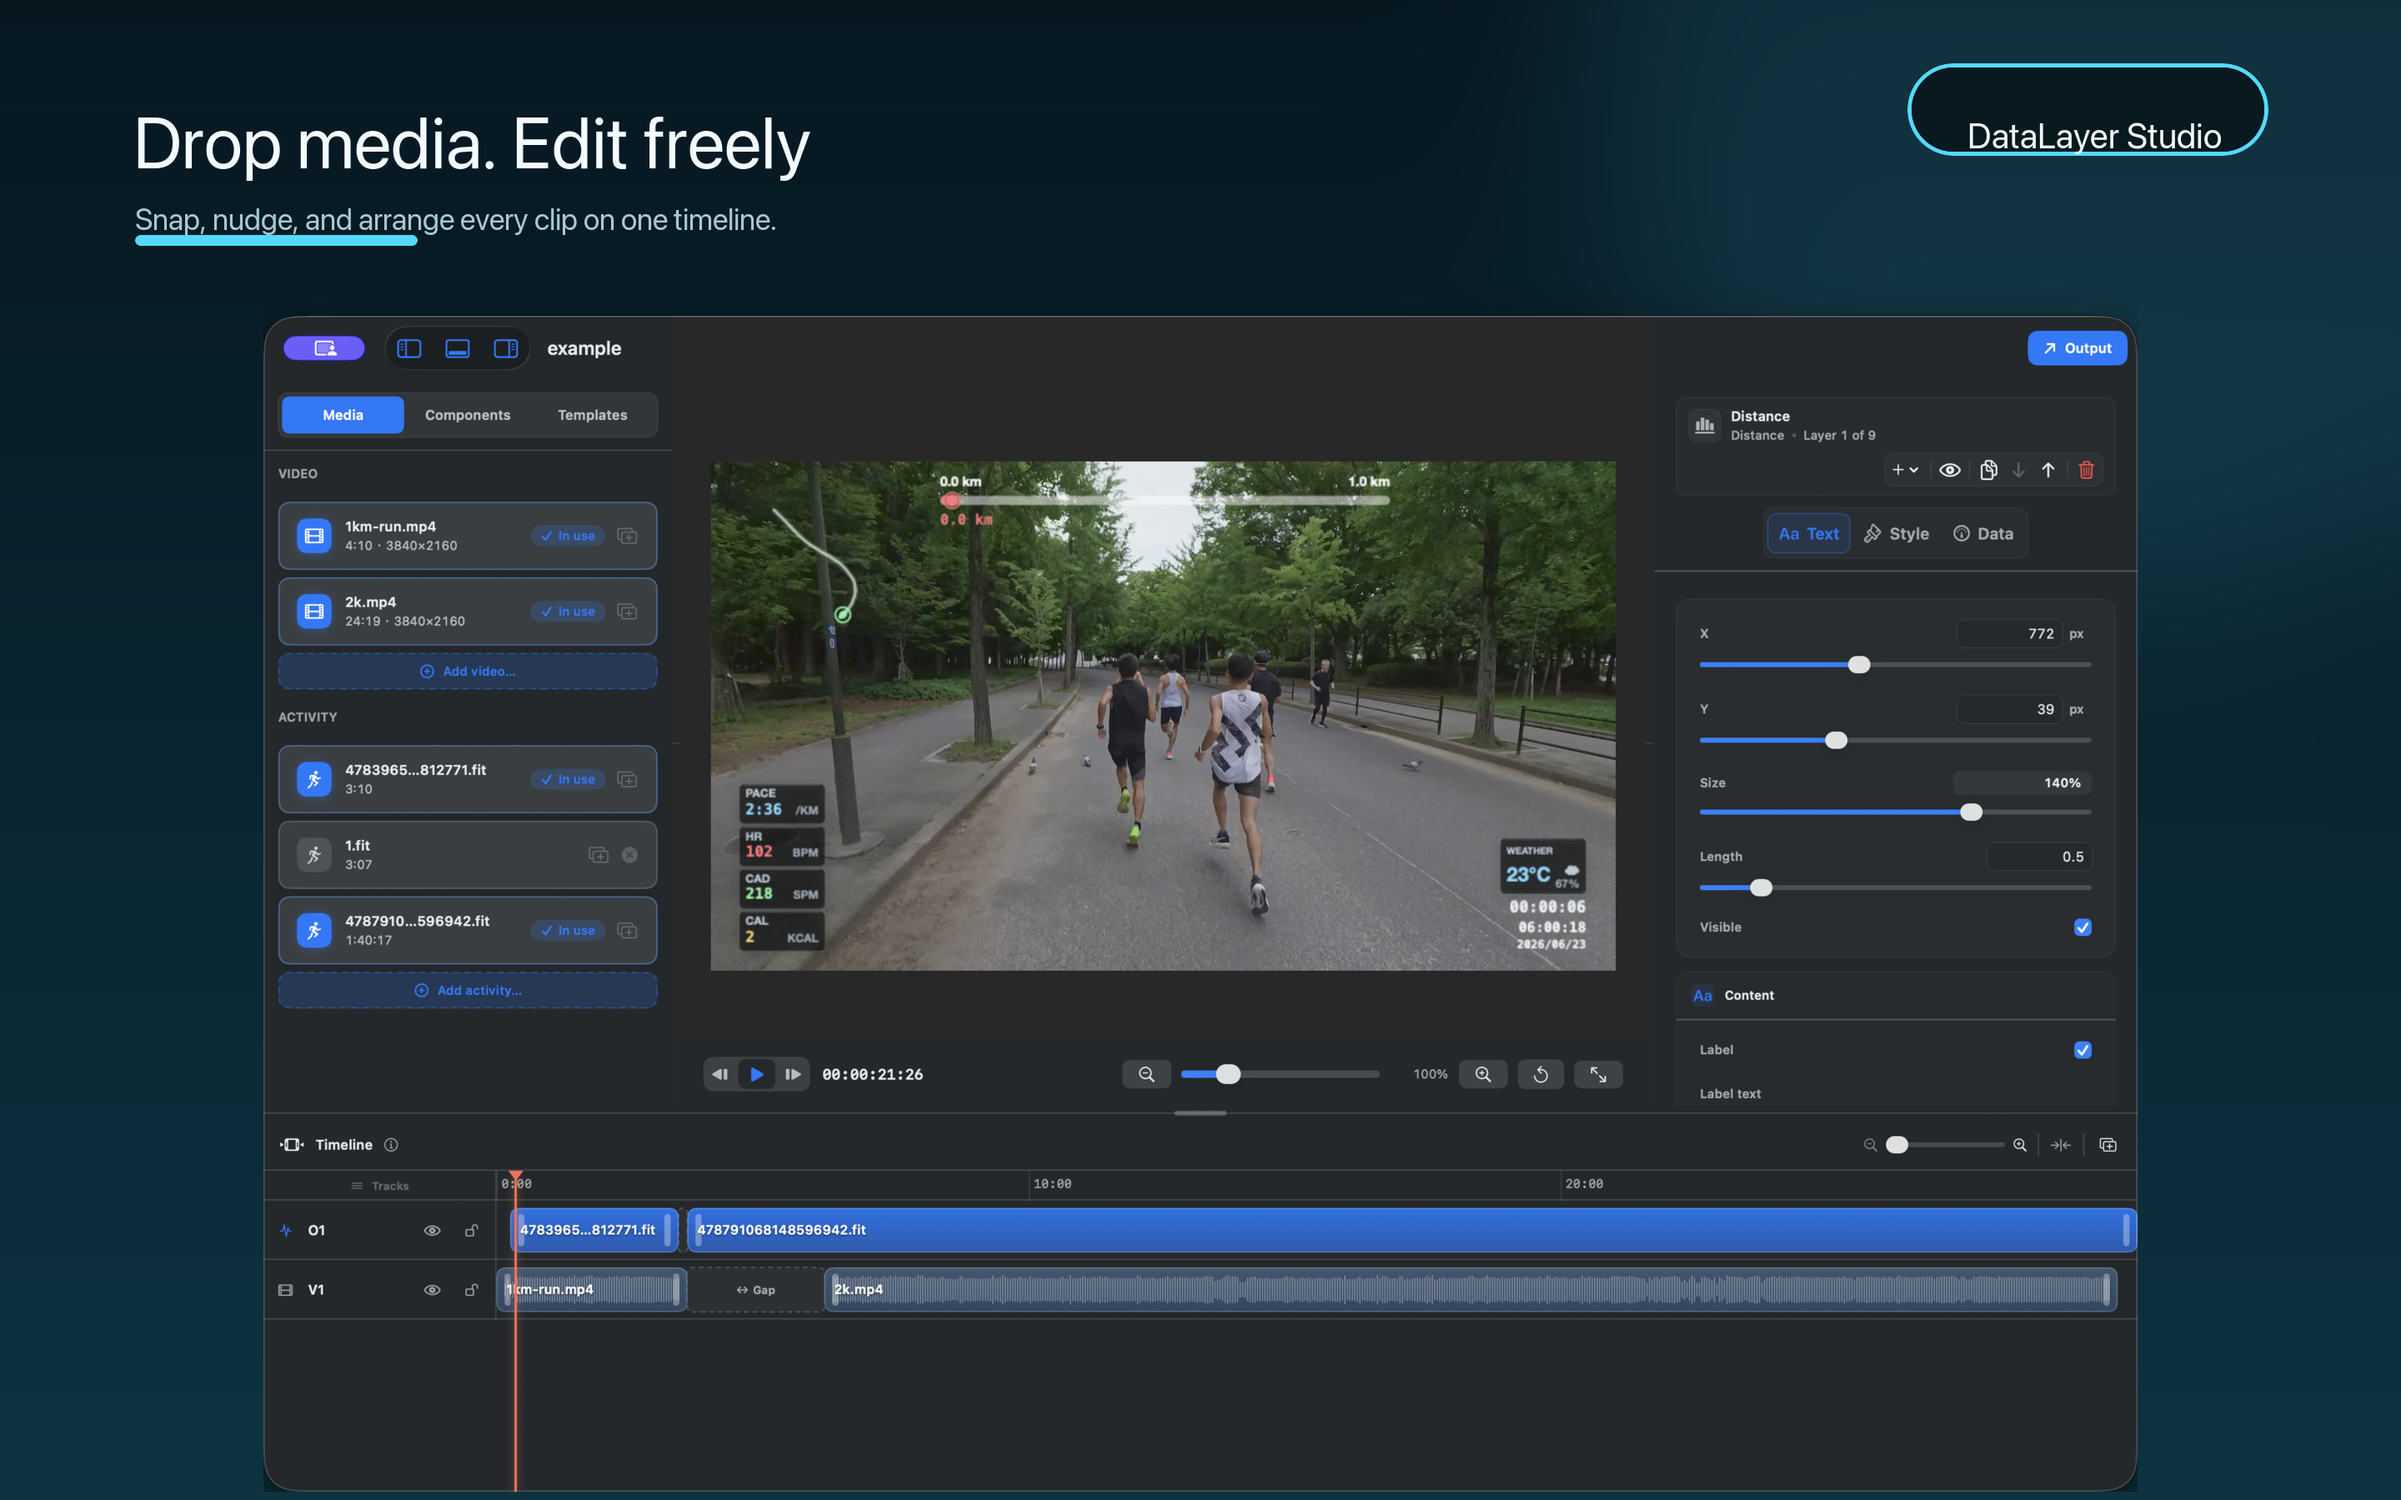
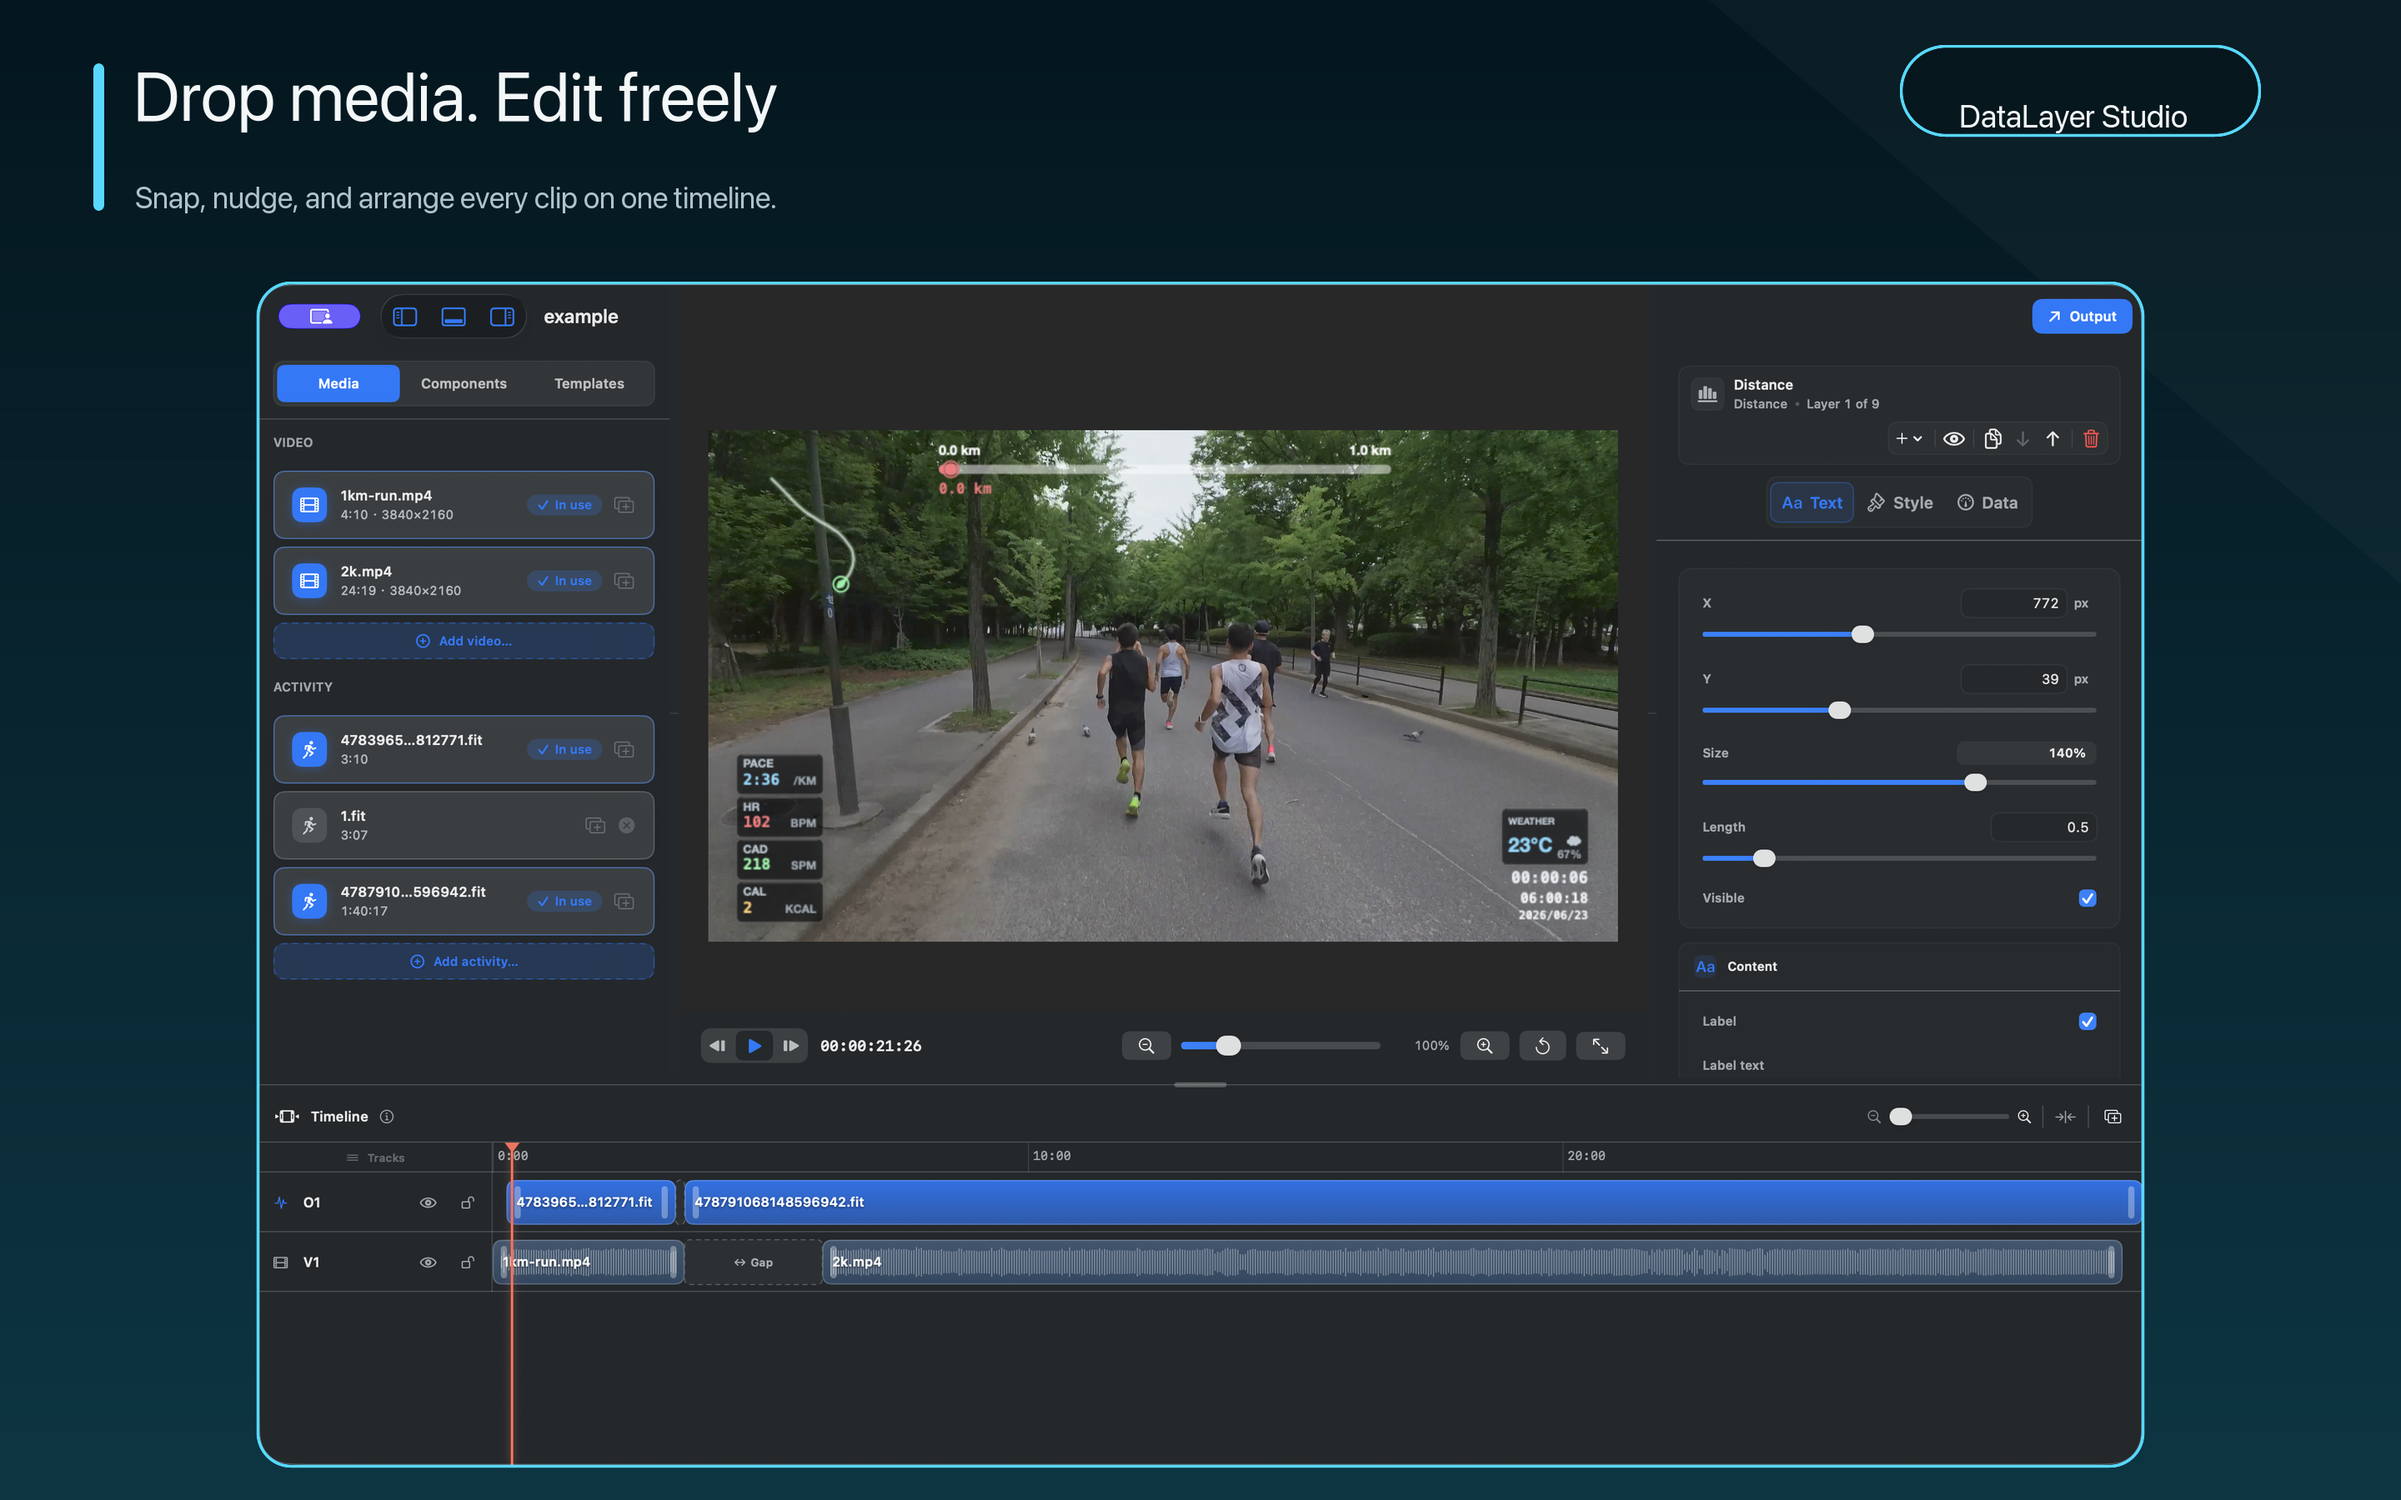
问题：商店截图四角出现直角阴影｜修复：移除窗口阴影并统一圆角描边版式

diff --git a/assets/appstore/v0.3.3/README.md b/assets/appstore/v0.3.3/README.md
@@ -9,4 +9,4 @@
 - 语言：`en-US`、`ja`、`zh-Hans`、`zh-Hant`
 - 原始截图：`assets/screenshots_raw/v0.3.3/`
 
-截图来自当前 `main` 最新本地 App 和 `example.dlsproj`，全部固定在时间码 `00:00:21:26`。截图前已确认视频、距离、配速、心率、步频、热量、天气和日期时间数据完整显示且无异常。版式重做为三色渐变背景、大标题与居中放大的完整 App 窗口，不复用旧版窗口坐标；同时提供 `desktop`（1440 × 900）和 `desktop@2x`（2880 × 1800），App Store Connect 仅上传 `desktop@2x`。
+截图来自当前 `main` 最新本地 App 和 `example.dlsproj`，全部固定在时间码 `00:00:21:26`。截图前已确认视频、距离、配速、心率、步频、热量、天气和日期时间数据完整显示且无异常。版式使用三色渐变背景、大标题与居中放大的完整 App 窗口；窗口按实际内容边界裁切，移除系统阴影，再以统一圆角和细描边呈现。同时提供 `desktop`（1440 × 900）和 `desktop@2x`（2880 × 1800），App Store Connect 仅上传 `desktop@2x`。
